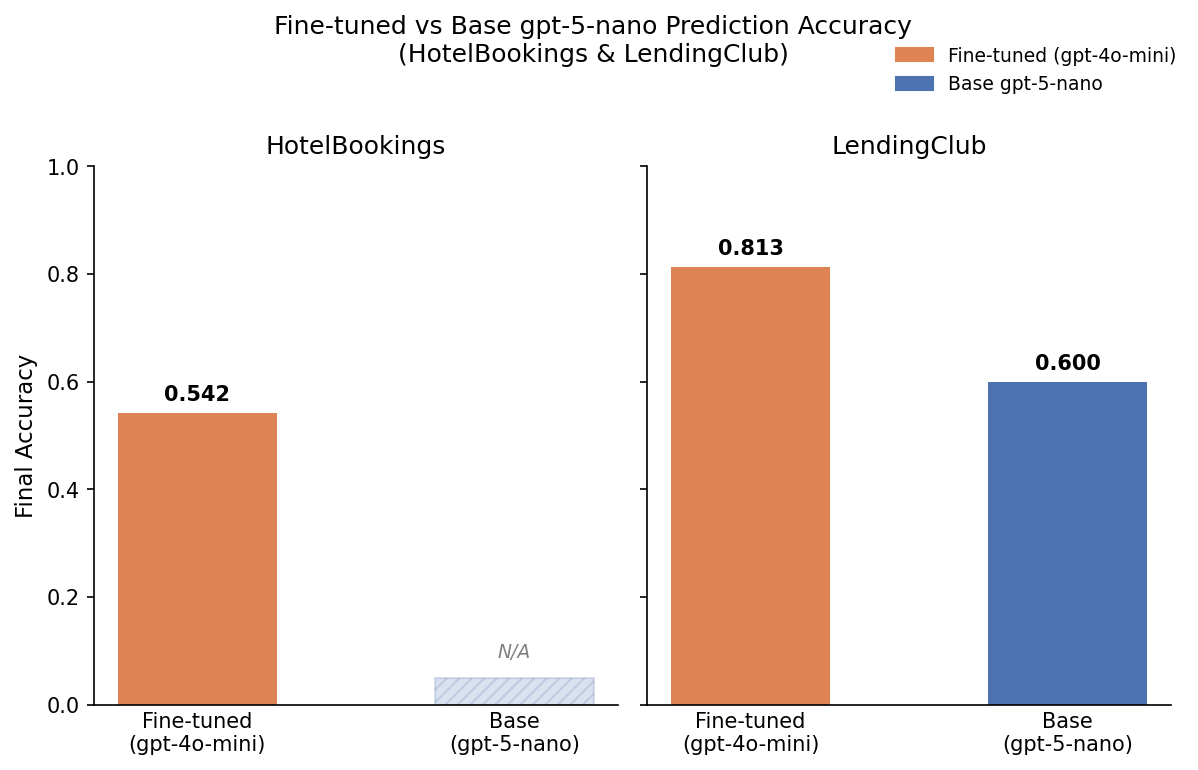
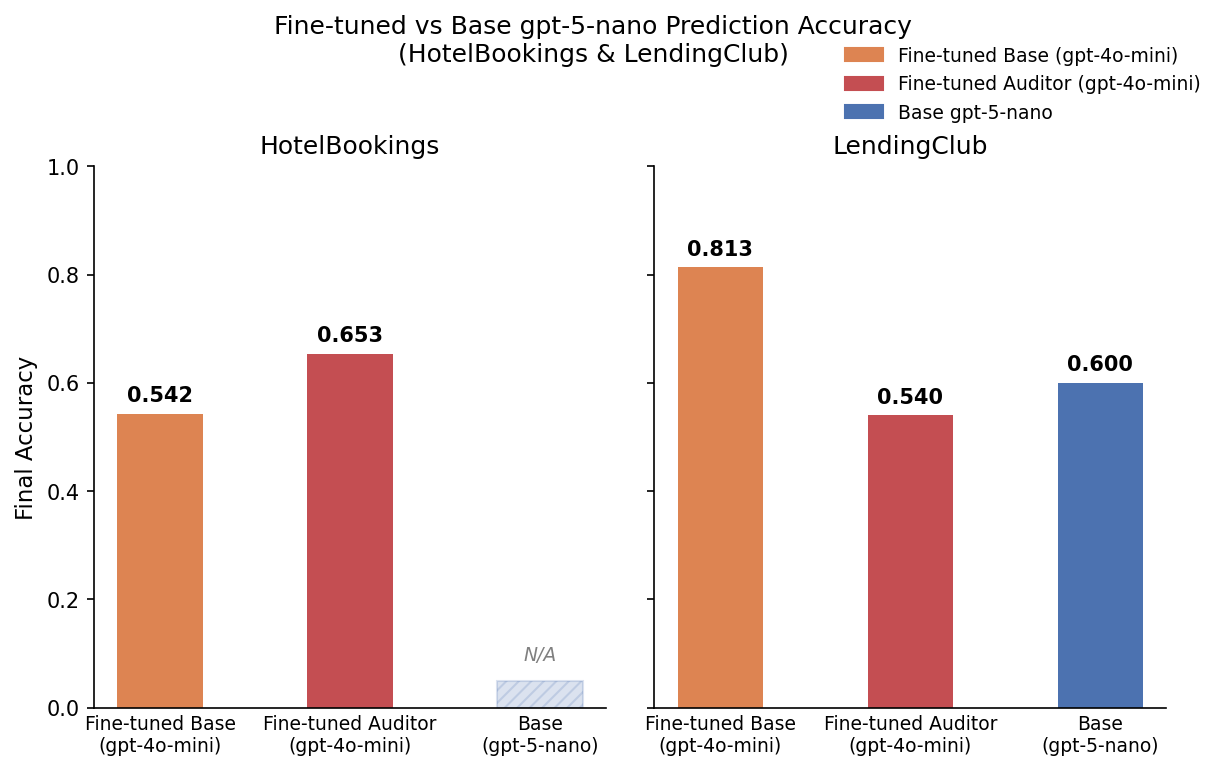
Add fine-tuned auditor bar to finetuned vs base chart
https://claude.ai/code/session_014ywgEPu7pi1Aw4HH2SWQWR

diff --git a/scripts/plot_cot_comparison.py b/scripts/plot_cot_comparison.py
@@ -142,36 +142,33 @@ FT_MODEL_IDS = {
 fig, axes = plt.subplots(1, 2, figsize=(8, 5), sharey=True)
 
 for ax, dataset in zip(axes, FT_DATASETS):
-    ft_model = FT_MODEL_IDS[dataset]
-    ft_acc   = try_load(RESULTS_DIR / dataset / f"base_{ft_model}.csv", dataset)
-    base_acc = try_load(RESULTS_DIR / dataset / f"base_{MODEL}.csv", dataset)
+    ft_model    = FT_MODEL_IDS[dataset]
+    ft_base_acc = try_load(RESULTS_DIR / dataset / f"base_{ft_model}.csv", dataset)
+    ft_aud_acc  = try_load(RESULTS_DIR / dataset / f"auditor_{ft_model}.csv", dataset)
+    base_acc    = try_load(RESULTS_DIR / dataset / f"base_{MODEL}.csv", dataset)
 
-    bars = []
-    bar_colors = []
-    bar_names  = []
+    entries = [
+        (ft_base_acc, COLORS["ft"],      "Fine-tuned Base\n(gpt-4o-mini)"),
+        (ft_aud_acc,  COLORS["auditor"], "Fine-tuned Auditor\n(gpt-4o-mini)"),
+        (base_acc,    COLORS["base"],    "Base\n(gpt-5-nano)"),
+    ]
 
-    bars.append(ft_acc if ft_acc is not None else np.nan)
-    bar_colors.append(COLORS["ft"])
-    bar_names.append("Fine-tuned\n(gpt-4o-mini)")
-
-    bars.append(base_acc if base_acc is not None else np.nan)
-    bar_colors.append(COLORS["base"])
-    bar_names.append("Base\n(gpt-5-nano)")
-
-    x_pos = np.arange(len(bars))
-    for xi, (acc, color) in enumerate(zip(bars, bar_colors)):
-        if np.isnan(acc):
-            ax.bar(xi, 0.05, 0.5, color=color, alpha=0.2, hatch="////",
+    bar_width = 0.45
+    x_pos = np.arange(len(entries))
+    for xi, (acc, color, _) in enumerate(entries):
+        val = acc if acc is not None else np.nan
+        if np.isnan(val):
+            ax.bar(xi, 0.05, bar_width, color=color, alpha=0.2, hatch="////",
                    edgecolor=color)
             ax.text(xi, 0.08, "N/A", ha="center", va="bottom",
                     fontsize=9, color="grey", style="italic")
         else:
-            ax.bar(xi, acc, 0.5, color=color)
-            ax.text(xi, acc + 0.015, f"{acc:.3f}", ha="center", va="bottom",
+            ax.bar(xi, val, bar_width, color=color)
+            ax.text(xi, val + 0.015, f"{val:.3f}", ha="center", va="bottom",
                     fontsize=10, fontweight="bold")
 
     ax.set_xticks(x_pos)
-    ax.set_xticklabels(bar_names, fontsize=10)
+    ax.set_xticklabels([e[2] for e in entries], fontsize=9)
     ax.set_title(dataset, fontsize=12)
     ax.set_ylim(0, 1.0)
     ax.tick_params(axis="x", length=0)
@@ -181,11 +178,12 @@ for ax, dataset in zip(axes, FT_DATASETS):
 axes[0].set_ylabel("Final Accuracy", fontsize=11)
 
 legend_handles = [
-    mpatches.Patch(color=COLORS["ft"],   label="Fine-tuned (gpt-4o-mini)"),
-    mpatches.Patch(color=COLORS["base"], label="Base gpt-5-nano"),
+    mpatches.Patch(color=COLORS["ft"],      label="Fine-tuned Base (gpt-4o-mini)"),
+    mpatches.Patch(color=COLORS["auditor"], label="Fine-tuned Auditor (gpt-4o-mini)"),
+    mpatches.Patch(color=COLORS["base"],    label="Base gpt-5-nano"),
 ]
 fig.legend(handles=legend_handles, frameon=False, fontsize=9,
-           loc="upper right", bbox_to_anchor=(1.0, 1.0))
+           loc="upper right", bbox_to_anchor=(1.02, 1.0))
 
 fig.suptitle("Fine-tuned vs Base gpt-5-nano Prediction Accuracy\n(HotelBookings & LendingClub)",
              fontsize=12, y=1.02)
